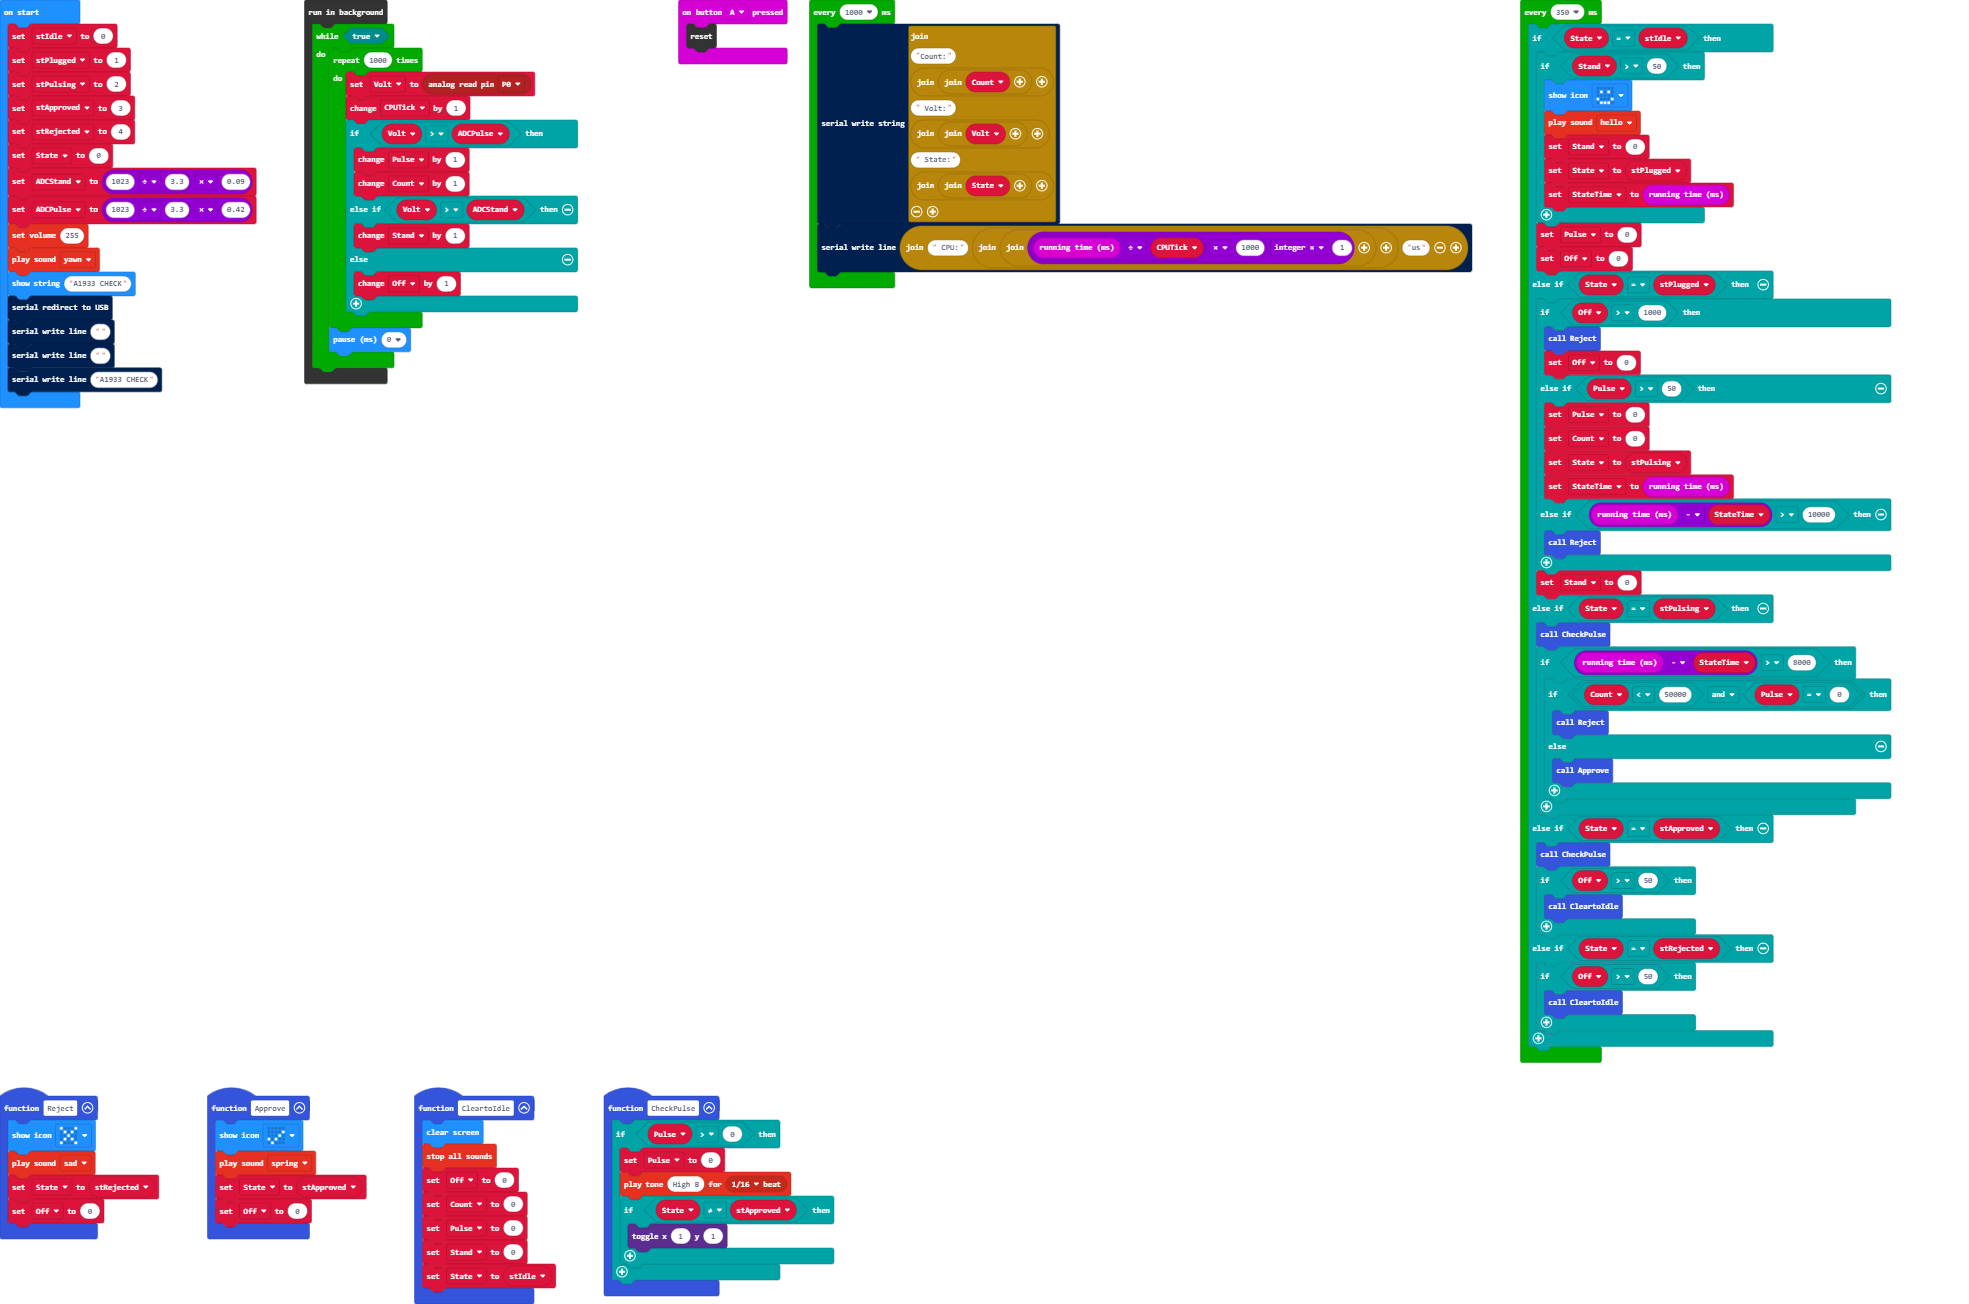
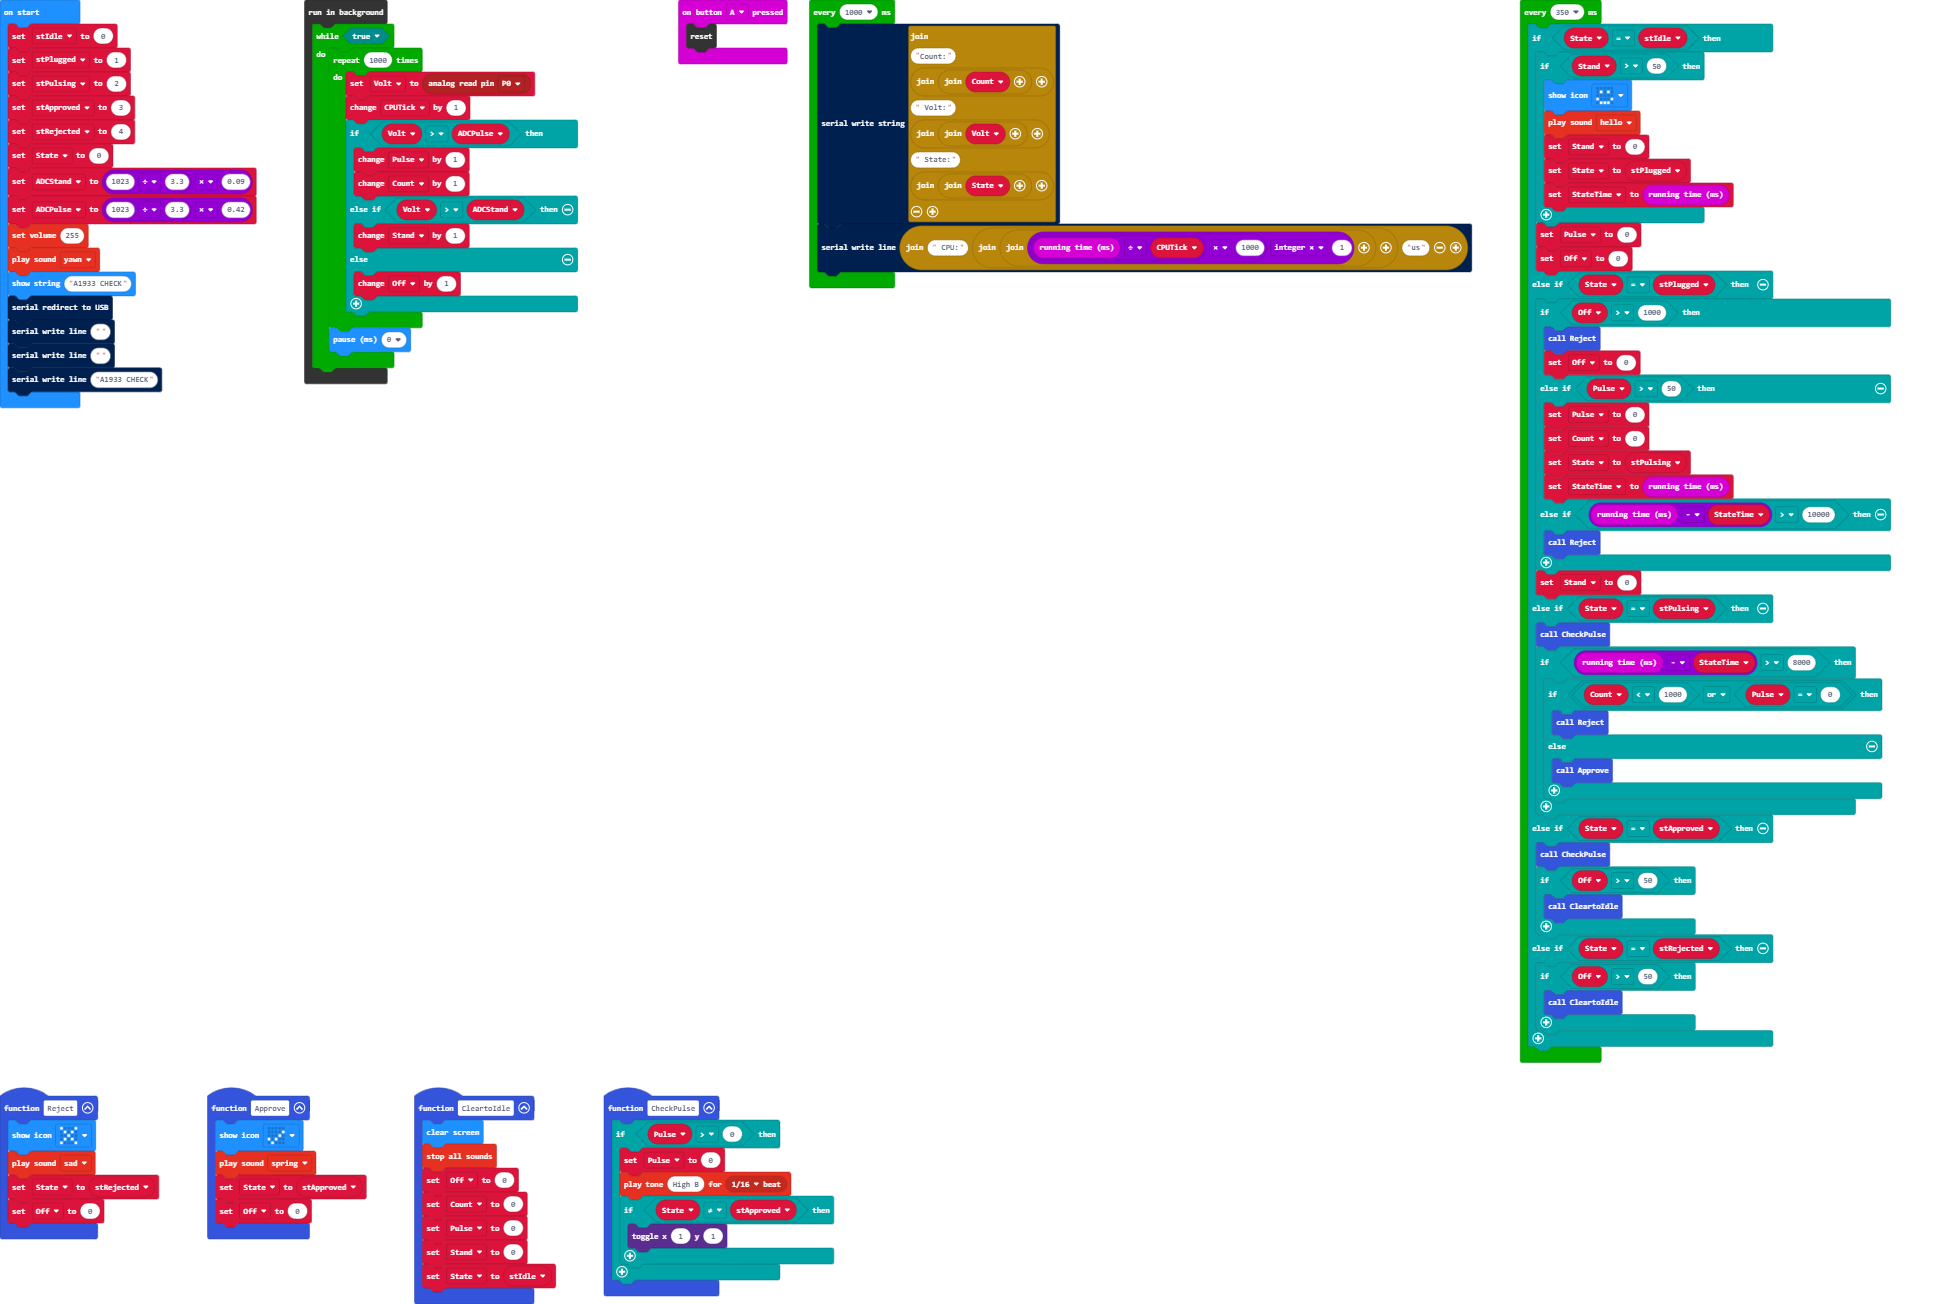
Update pxt.json, main.blocks, main.ts

diff --git a/main.ts b/main.ts
@@ -88,7 +88,7 @@ loops.everyInterval(350, function () {
     } else if (State == stPulsing) {
         CheckPulse()
         if (input.runningTime() - StateTime > 8000) {
-            if (Count < 50000 && Pulse == 0) {
+            if (Count < 1000 || Pulse == 0) {
                 Reject()
             } else {
                 Approve()
